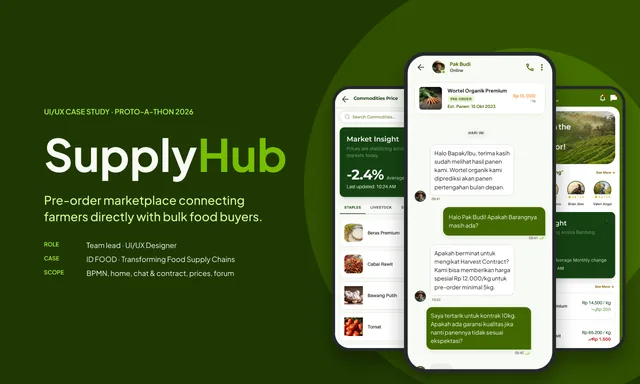
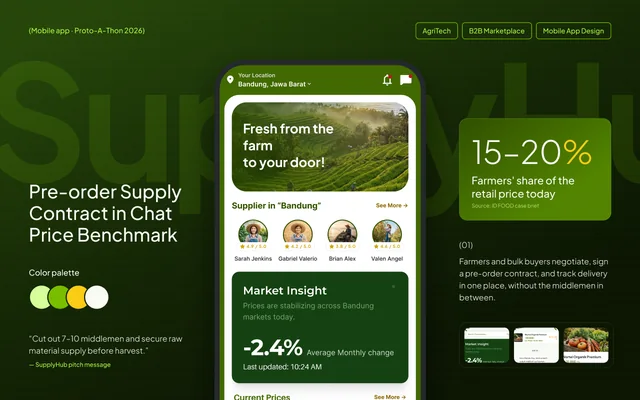
fix: use editorial SupplyHub cover as thumbnail

diff --git a/src/content/designWork.js b/src/content/designWork.js
@@ -32,9 +32,9 @@ export const designWork = {
         "A pre-order marketplace connecting farmers directly with bulk buyers, where the contract is drafted inside the chat. Mapped the system flow and designed most of the screens.",
       thumbnail: {
         src: "/projects/thumbs/SupplyHub.webp",
-        alt: "SupplyHub cover: wordmark with commodity prices, farmer chat, and home screens",
+        alt: "SupplyHub cover: home screen on a phone, farmer price share, and key features",
         width: 640,
-        height: 384,
+        height: 400,
       },
     },
     {
